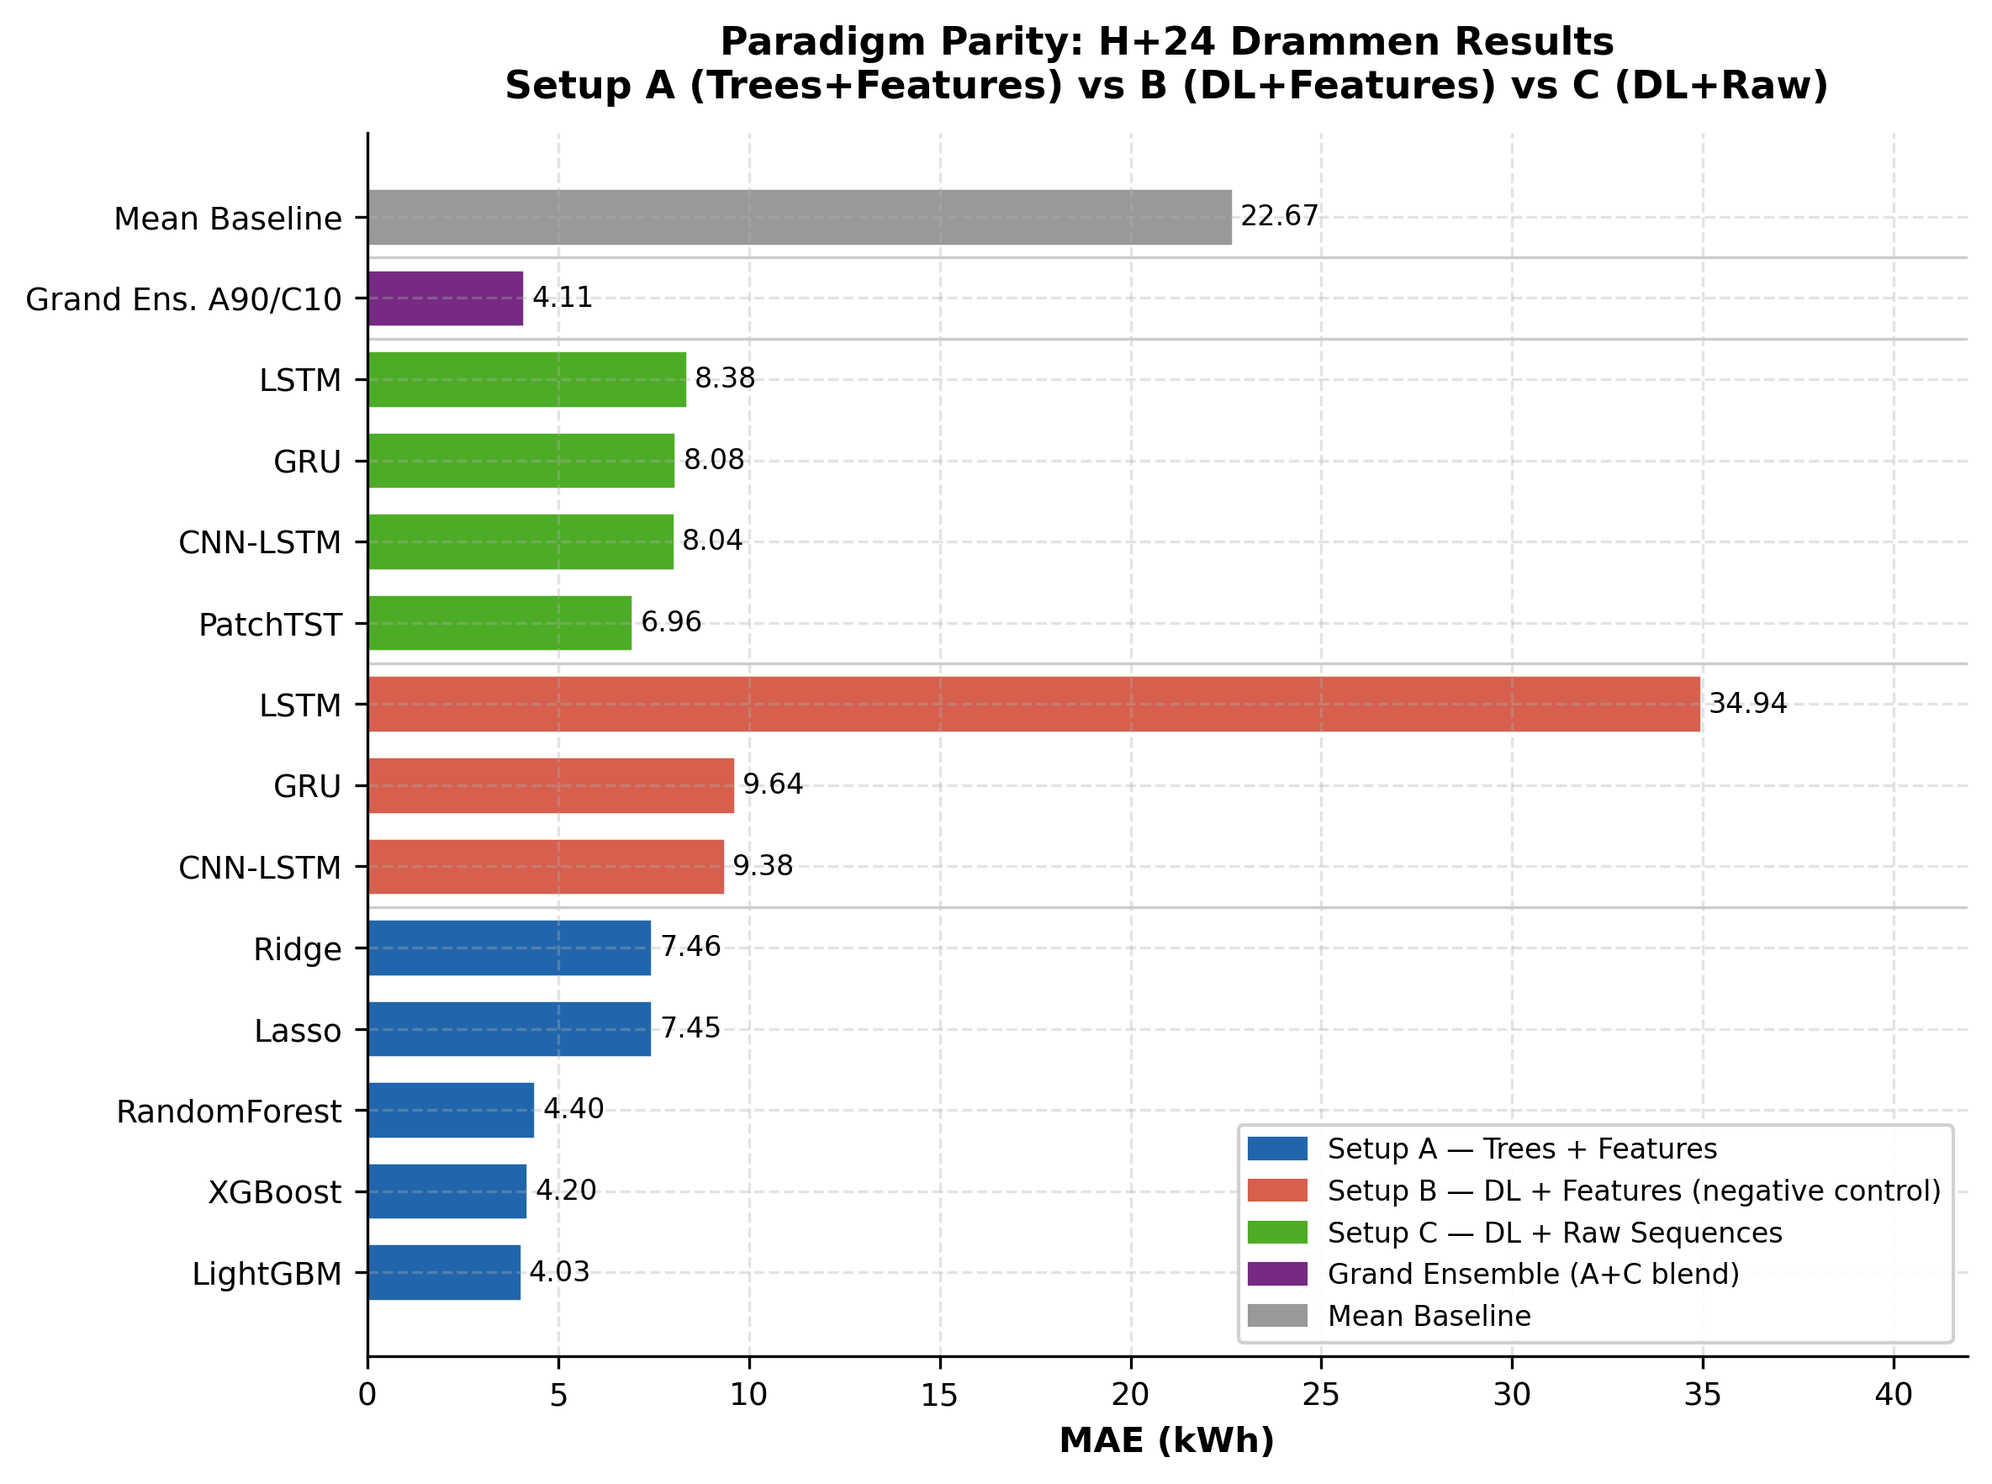
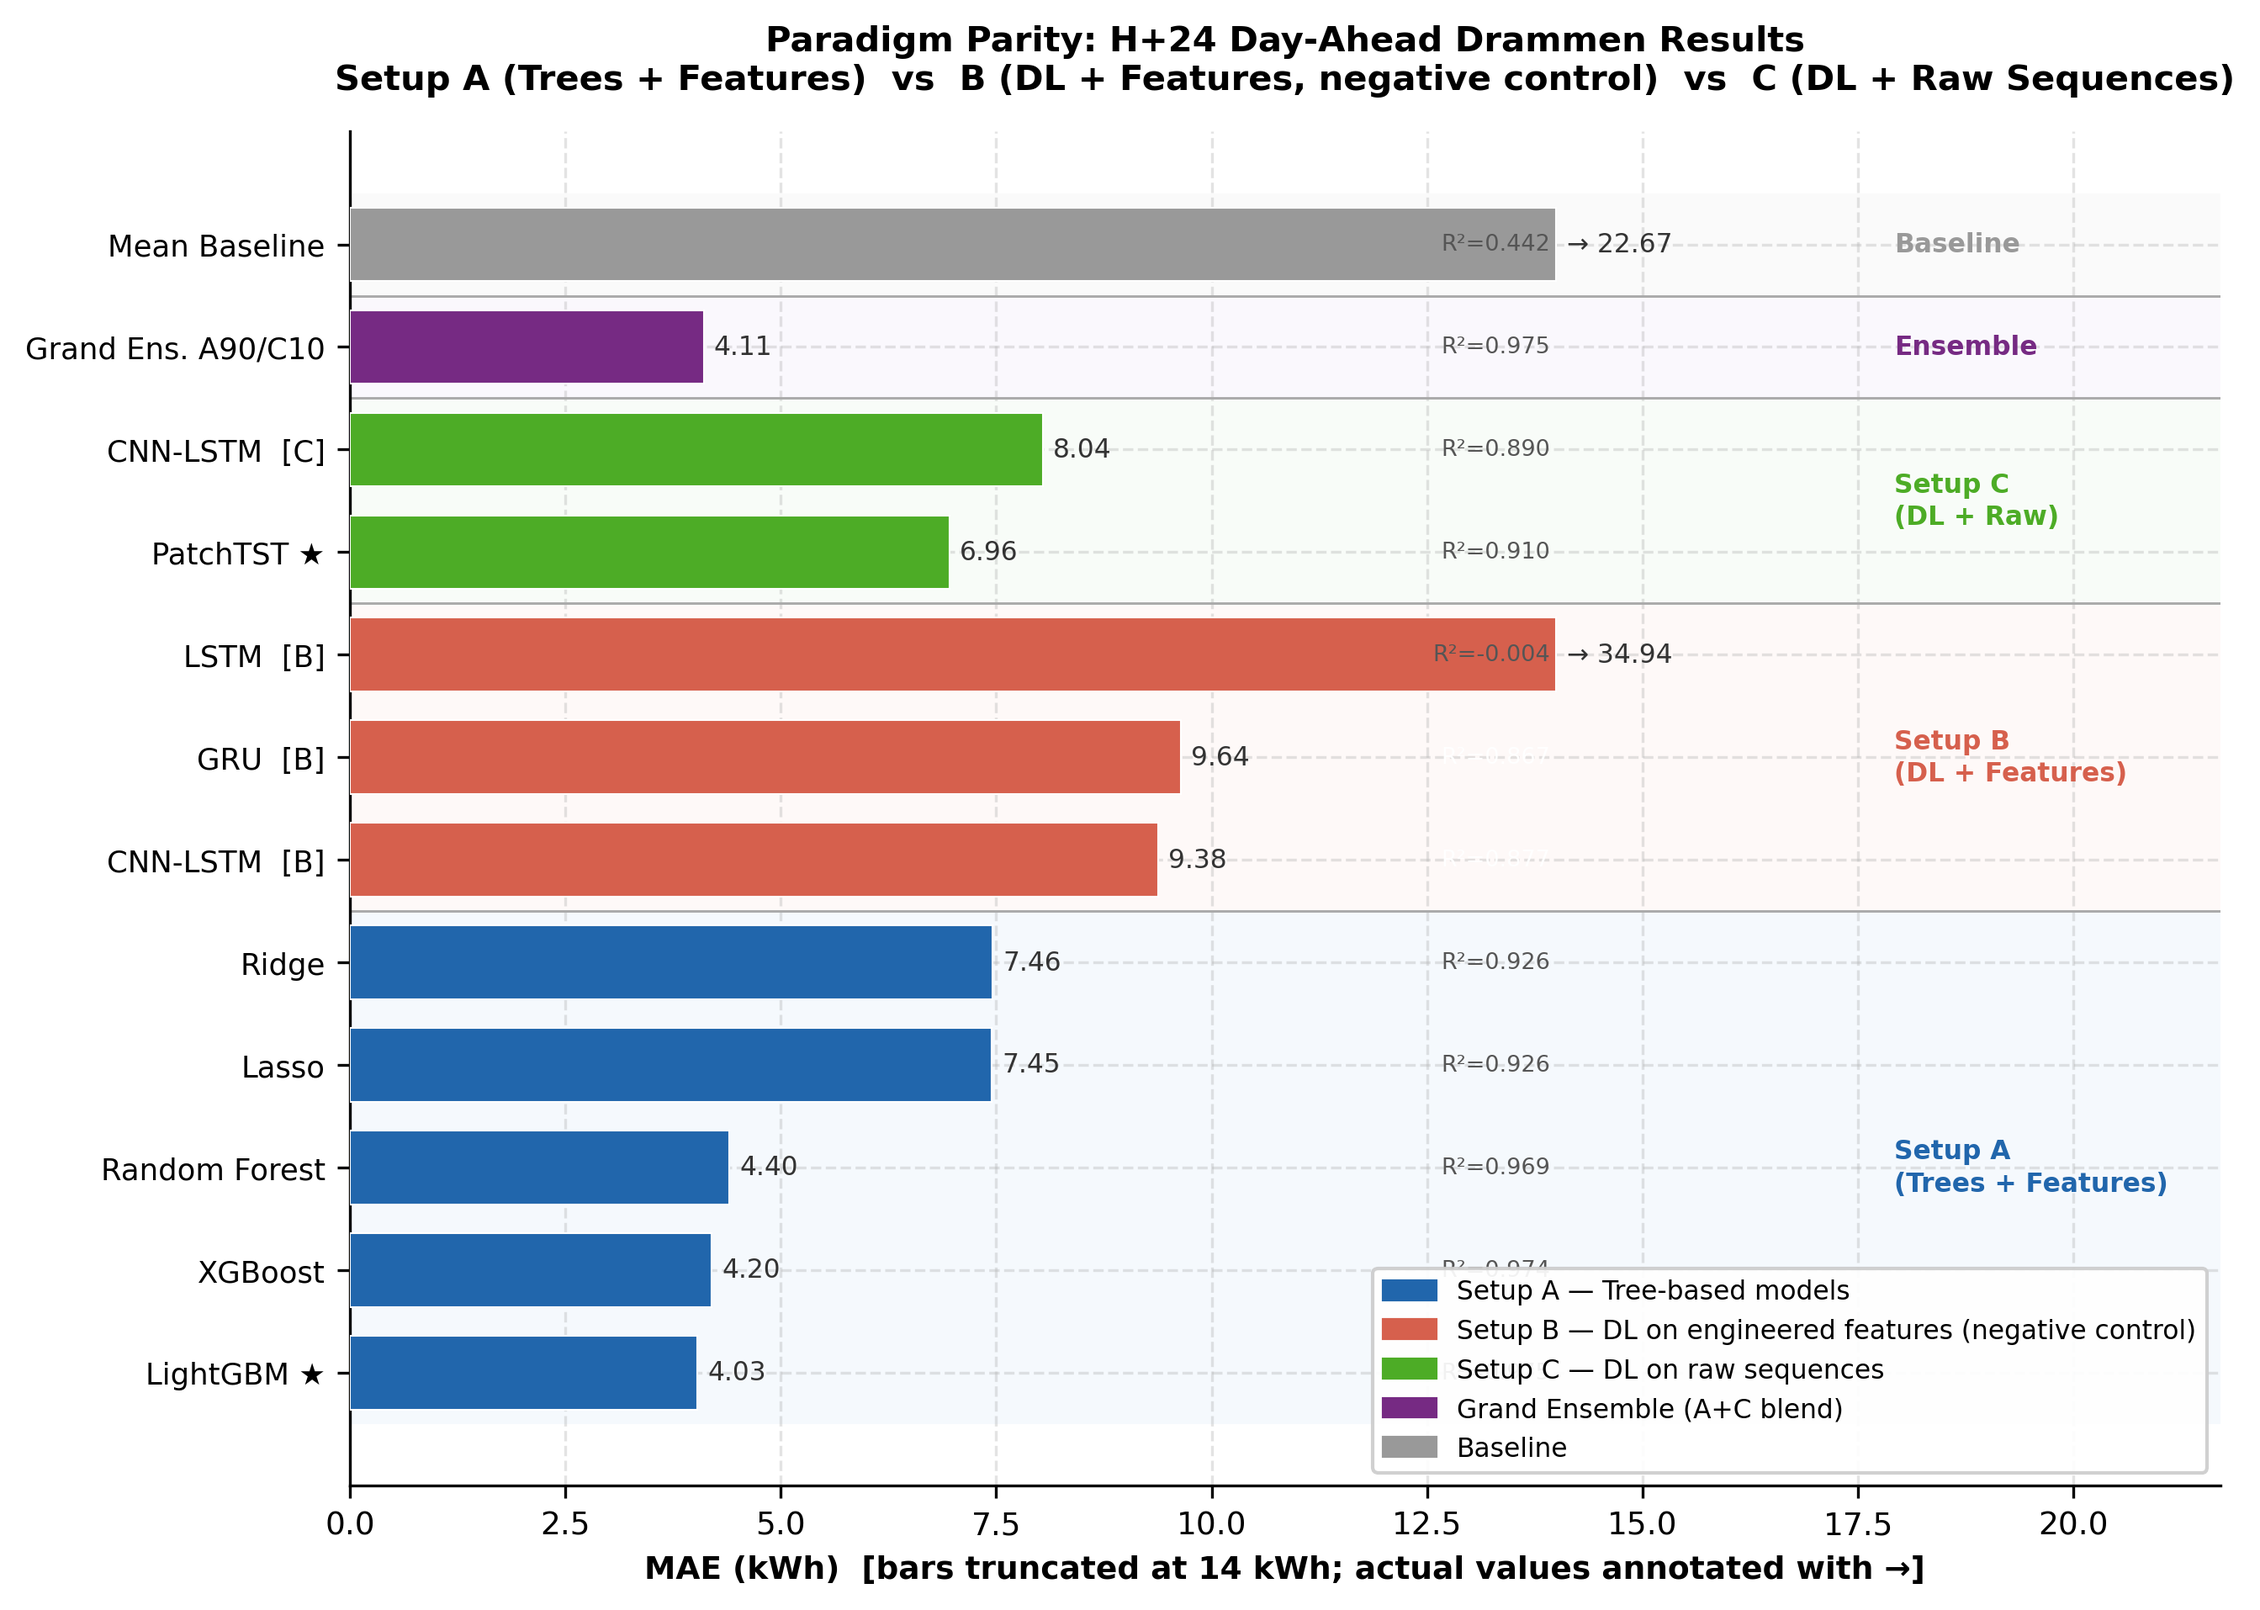
fig1: redesign paradigm parity chart (capped axis, R² annotations, shading)
- Cap x-axis at 14 kWh; LSTM_SetupB and Mean Baseline bars truncated with
  actual values annotated via '→' arrow
- Unify R²/R2 column spellings so all 12 models show R² annotations
- Add TFT_SetupB to keep_patterns and label_map (auto-populates once trained)
- Add paradigm background shading (axhspan) and group labels on right margin
- Drop LSTM_SetupC and GRU_SetupC (PatchTST and CNN-LSTM [C] retained)
- paper: remove 'pending' script-run notes; replace pending cells with '—'
- paper: Section 4.6 prose expanded (inverse-MAE weighting rationale)
- paper: Section 4.2 TFT note reframed (informational, not as a caveat)

diff --git a/scripts/generate_paper_figures.py b/scripts/generate_paper_figures.py
@@ -93,92 +93,176 @@ def load_quantile() -> pd.DataFrame:
 # ---------------------------------------------------------------------------
 
 def fig1_paradigm_parity() -> None:
-    """All H+24 Drammen models, grouped by paradigm, sorted by MAE."""
+    """All H+24 Drammen models, grouped by paradigm, sorted by MAE.
+
+    Design improvements over v1:
+    - X-axis capped at 14 kWh; outlier bars (LSTM_SetupB, Mean Baseline)
+      are truncated and annotated with their actual values and '→' arrow
+      so the scale is not distorted.
+    - LSTM_SetupC and GRU_SetupC removed (PatchTST is the Setup C champion;
+      CNN-LSTM_SetupC retained as secondary reference).
+    - R² value annotated to the right of each bar as secondary metric.
+    - Paradigm-group background shading for fast visual parsing.
+    - Cleaner model labels.
+    """
     df = load_drammen()
 
-    # Tag each row with its paradigm
-    def tag(name: str) -> tuple[str, str]:
+    # ── Paradigm tagging ─────────────────────────────────────────────────────
+    def tag(name: str) -> str:
         n = str(name)
-        if "Ensemble" in n or "Stacking" in n:
-            return ("Ensemble", "Ensemble")
+        if "GrandEnsemble" in n or "Stacking" in n:
+            return "Ensemble"
         if any(x in n for x in ["Naive", "Baseline", "Mean", "Seasonal"]):
-            return ("Baseline", "Baseline")
+            return "Baseline"
         if "SetupB" in n:
-            return ("B", "Setup B\n(DL + Features)")
+            return "B"
         if "SetupC" in n:
-            return ("C", "Setup C\n(DL + Raw)")
+            return "C"
         if any(x in n for x in ["LightGBM", "XGBoost", "RandomForest", "Ridge", "Lasso"]):
-            return ("A", "Setup A\n(Trees + Features)")
-        return ("C", "Setup C\n(DL + Raw)")
+            return "A"
+        return "C"
 
-    # Filter to informative rows (no grand ensemble sweep rows, only A0_C100 and A90_C10 and A100_C0)
+    # ── Model selection ───────────────────────────────────────────────────────
+    # Keep key champion/reference models only; drop redundant Setup C LSTM/GRU
     keep_patterns = [
         "LightGBM_SetupA", "XGBoost_SetupA", "RandomForest_SetupA",
         "Ridge_SetupA", "Lasso_SetupA",
-        "LSTM_SetupB", "CNN-LSTM_SetupB", "GRU_SetupB",
-        "PatchTST_SetupC", "CNN-LSTM_SetupC", "LSTM_SetupC", "GRU_SetupC",
+        "LSTM_SetupB", "CNN-LSTM_SetupB", "GRU_SetupB", "TFT_SetupB",
+        "PatchTST_SetupC", "CNN-LSTM_SetupC",
         "GrandEnsemble_A90_C9",
         "Mean Baseline",
     ]
-    # Flexible matching
     sel = df[df["model"].apply(lambda m: any(p in str(m) for p in keep_patterns))].copy()
 
-    # Use R² column — handle both "R²" and "R2"
-    r2_col = "R²" if "R²" in sel.columns else "R2"
     mae_col = "MAE"
+    # Unify the two R² column spellings (R² for sklearn rows, R2 for DL/ensemble rows)
+    sel["_r2"] = sel["R²"].fillna(sel["R2"]) if ("R²" in sel.columns and "R2" in sel.columns) \
+                 else (sel["R²"] if "R²" in sel.columns else sel["R2"])
+    r2_col = "_r2"
 
-    sel["paradigm"] = sel["model"].apply(lambda m: tag(m)[0])
-    sel["label"] = sel["model"].apply(lambda m: (
-        str(m).replace("_SetupA", "").replace("_SetupB", "").replace("_SetupC", "")
-             .replace("GrandEnsemble_A90_C9", "Grand Ens. A90/C10")
-    ))
+    # ── Readable labels ───────────────────────────────────────────────────────
+    label_map = {
+        "LightGBM_SetupA":    "LightGBM ★",
+        "XGBoost_SetupA":     "XGBoost",
+        "RandomForest_SetupA":"Random Forest",
+        "Ridge_SetupA":       "Ridge",
+        "Lasso_SetupA":       "Lasso",
+        "LSTM_SetupB":        "LSTM  [B]",
+        "CNN-LSTM_SetupB":    "CNN-LSTM  [B]",
+        "GRU_SetupB":         "GRU  [B]",
+        "TFT_SetupB":         "TFT  [B]",
+        "PatchTST_SetupC":    "PatchTST ★",
+        "CNN-LSTM_SetupC":    "CNN-LSTM  [C]",
+        "GrandEnsemble_A90_C9": "Grand Ens. A90/C10",
+        "Mean Baseline":      "Mean Baseline",
+    }
+    sel["paradigm"] = sel["model"].apply(tag)
+    sel["label"]    = sel["model"].map(label_map).fillna(
+        sel["model"].str.replace("_SetupA","").str.replace("_SetupB","").str.replace("_SetupC","")
+    )
 
-    # Sort: within each paradigm, sort by MAE ascending
-    order = ["A", "B", "C", "Ensemble", "Baseline"]
-    sel["porder"] = sel["paradigm"].map({k: i for i, k in enumerate(order)})
-    sel = sel.sort_values(["porder", mae_col], ascending=[True, True])
+    # ── Sort: paradigm group order, then MAE ascending within group ───────────
+    order = {"A": 0, "B": 1, "C": 2, "Ensemble": 3, "Baseline": 4}
+    sel["porder"] = sel["paradigm"].map(order)
+    sel = sel.sort_values(["porder", mae_col], ascending=[True, True]).reset_index(drop=True)
 
-    # Colours per row
+    # ── Plot setup ────────────────────────────────────────────────────────────
+    X_MAX = 14.0   # display cap; bars exceeding this are truncated + annotated
     colors = [PALETTE[p] for p in sel["paradigm"]]
 
-    fig, ax = plt.subplots(figsize=(8, 6))
-    y_pos = range(len(sel))
-    bars = ax.barh(list(y_pos), sel[mae_col].values, color=colors, edgecolor="white",
-                   linewidth=0.6, height=0.7)
+    fig, ax = plt.subplots(figsize=(9, 6.5))
+    y_pos = np.arange(len(sel))
 
-    # Value labels
-    for bar, val in zip(bars, sel[mae_col].values):
-        ax.text(bar.get_width() + 0.2, bar.get_y() + bar.get_height() / 2,
-                f"{val:.2f}", va="center", ha="left", fontsize=8)
+    # Draw bars (capped at X_MAX)
+    display_mae = sel[mae_col].clip(upper=X_MAX).values
+    bars = ax.barh(y_pos, display_mae, color=colors, edgecolor="white",
+                   linewidth=0.5, height=0.72, zorder=3)
 
-    ax.set_yticks(list(y_pos))
-    ax.set_yticklabels(sel["label"].values, fontsize=9)
-    ax.set_xlabel("MAE (kWh)", fontweight="bold")
-    ax.set_title("Paradigm Parity: H+24 Drammen Results\n"
-                 "Setup A (Trees+Features) vs B (DL+Features) vs C (DL+Raw)",
-                 fontweight="bold", pad=10)
-    ax.set_xlim(0, sel[mae_col].max() * 1.2)
+    # ── Annotations: value + R² ───────────────────────────────────────────────
+    for i, (bar, raw_mae) in enumerate(zip(bars, sel[mae_col].values)):
+        # MAE value label (use "→ X.XX" for truncated bars)
+        truncated = raw_mae > X_MAX
+        x_text = X_MAX + 0.12 if truncated else bar.get_width() + 0.12
+        label   = f"→ {raw_mae:.2f}" if truncated else f"{raw_mae:.2f}"
+        ax.text(x_text, bar.get_y() + bar.get_height() / 2,
+                label, va="center", ha="left", fontsize=7.5, color="#333333")
 
-    # Legend patches
+        # R² annotation (right-aligned inside or just right of bar)
+        r2_val = sel[r2_col].iloc[i]
+        if pd.notna(r2_val):
+            r2_str = f"R²={r2_val:.3f}"
+            ax.text(X_MAX * 0.995, bar.get_y() + bar.get_height() / 2,
+                    r2_str, va="center", ha="right", fontsize=6.5,
+                    color="white" if not truncated and display_mae[i] > X_MAX * 0.65 else "#555555",
+                    zorder=4)
+
+    # ── Paradigm background shading ───────────────────────────────────────────
+    bg_colors = {
+        "A": "#eaf3fb", "B": "#fdf2f0", "C": "#f0faf0",
+        "Ensemble": "#f5f0fb", "Baseline": "#f5f5f5",
+    }
+    group_label_pos = {}
+    prev_p, start_i = None, 0
+    rows_with_paradigm = list(zip(y_pos, sel["paradigm"].values))
+    for idx, (yp, p) in enumerate(rows_with_paradigm):
+        if p != prev_p:
+            if prev_p is not None:
+                ax.axhspan(start_i - 0.5, yp - 0.5, facecolor=bg_colors[prev_p],
+                           alpha=0.45, zorder=1)
+                group_label_pos[prev_p] = (start_i + yp - 1) / 2
+            start_i = yp
+            prev_p = p
+    # Last group
+    ax.axhspan(start_i - 0.5, y_pos[-1] + 0.5, facecolor=bg_colors[prev_p],
+               alpha=0.45, zorder=1)
+    group_label_pos[prev_p] = (start_i + y_pos[-1]) / 2
+
+    # ── Group boundary lines ──────────────────────────────────────────────────
+    seen = []
+    for yp, p in rows_with_paradigm:
+        if p not in seen:
+            if seen:
+                ax.axhline(yp - 0.5, color="#aaaaaa", linewidth=0.7, linestyle="-", zorder=2)
+            seen.append(p)
+
+    # ── Group labels on the right margin ─────────────────────────────────────
+    group_full_names = {
+        "A":        "Setup A\n(Trees + Features)",
+        "B":        "Setup B\n(DL + Features)",
+        "C":        "Setup C\n(DL + Raw)",
+        "Ensemble": "Ensemble",
+        "Baseline": "Baseline",
+    }
+    for p, yc in group_label_pos.items():
+        ax.text(X_MAX * 1.28, yc, group_full_names[p],
+                va="center", ha="left", fontsize=7.5, color=PALETTE[p],
+                fontweight="bold", linespacing=1.3)
+
+    # ── Axes formatting ───────────────────────────────────────────────────────
+    ax.set_yticks(y_pos)
+    ax.set_yticklabels(sel["label"].values, fontsize=8.5)
+    ax.set_xlabel("MAE (kWh)  [bars truncated at 14 kWh; actual values annotated with →]",
+                  fontweight="bold", fontsize=9)
+    ax.set_xlim(0, X_MAX * 1.55)
+    ax.set_title(
+        "Paradigm Parity: H+24 Day-Ahead Drammen Results\n"
+        "Setup A (Trees + Features)  vs  B (DL + Features, negative control)  vs  C (DL + Raw Sequences)",
+        fontweight="bold", pad=12, fontsize=10,
+    )
+
+    # ── Legend ────────────────────────────────────────────────────────────────
     legend_patches = [
-        mpatches.Patch(color=PALETTE["A"], label="Setup A — Trees + Features"),
-        mpatches.Patch(color=PALETTE["B"], label="Setup B — DL + Features (negative control)"),
-        mpatches.Patch(color=PALETTE["C"], label="Setup C — DL + Raw Sequences"),
+        mpatches.Patch(color=PALETTE["A"],        label="Setup A — Tree-based models"),
+        mpatches.Patch(color=PALETTE["B"],        label="Setup B — DL on engineered features (negative control)"),
+        mpatches.Patch(color=PALETTE["C"],        label="Setup C — DL on raw sequences"),
         mpatches.Patch(color=PALETTE["Ensemble"], label="Grand Ensemble (A+C blend)"),
-        mpatches.Patch(color=PALETTE["Baseline"], label="Mean Baseline"),
+        mpatches.Patch(color=PALETTE["Baseline"], label="Baseline"),
     ]
-    ax.legend(handles=legend_patches, loc="lower right", framealpha=0.9, fontsize=8)
+    ax.legend(handles=legend_patches, loc="lower right", framealpha=0.92,
+              fontsize=7.5, frameon=True, edgecolor="#cccccc")
 
-    # Separator lines between paradigm groups
-    group_boundaries = []
-    prev = None
-    for i, p in enumerate(sel["paradigm"].values):
-        if p != prev and prev is not None:
-            group_boundaries.append(i - 0.5)
-        prev = p
-    for b in group_boundaries:
-        ax.axhline(b, color="#cccccc", linewidth=0.8, linestyle="-")
-
+    ax.spines["top"].set_visible(False)
+    ax.spines["right"].set_visible(False)
     fig.tight_layout()
     out = FIG_DIR / "fig1_paradigm_parity.png"
     fig.savefig(out, bbox_inches="tight")
